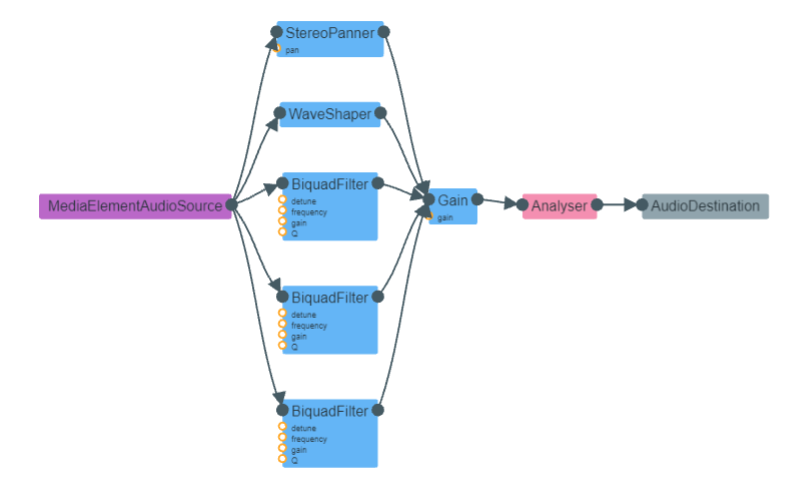
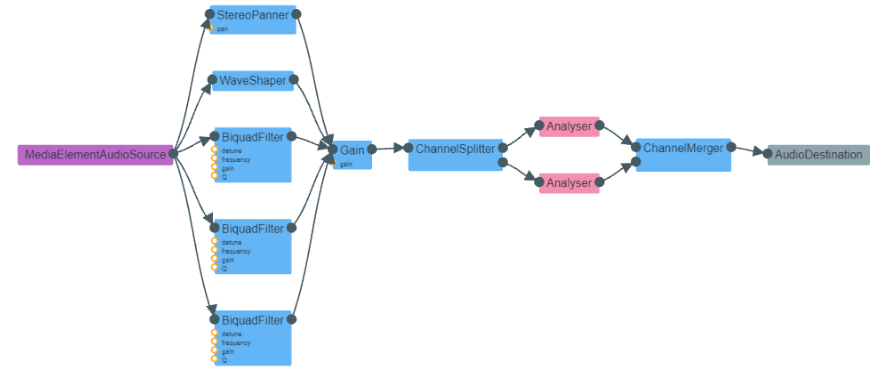
feat: :sparkles: separate left and right channel in bar visualizer

Changed region(s): [[0.0, 0.0, 1.0, 0.9947]]

diff --git a/src/components/Visualiser/Visualiser.tsx b/src/components/Visualiser/Visualiser.tsx
@@ -3,43 +3,59 @@ import Canvas from "../Canvas/Canvas";
 
 interface IVisualiser {
   isAudioPlaying: boolean;
-  analyserNode: AnalyserNode | null;
+  analyserNodeL: AnalyserNode | null;
+  analyserNodeR: AnalyserNode | null;
   visualiserType: string;
 }
 
 function Visualiser({
-  analyserNode,
+  analyserNodeL,
+  analyserNodeR,
   isAudioPlaying,
   visualiserType,
 }: IVisualiser) {
   // create array of unsigned 8 bit integer with length equal to the bufferLength
-  const dataArray = useRef<Uint8Array | null>(null);
+  const dataArrayL = useRef<Uint8Array | null>(null);
+  const dataArrayR = useRef<Uint8Array | null>(null);
 
   useEffect(() => {
-    if (analyserNode === null) return;
+    if (analyserNodeL === null) return;
+    if (analyserNodeR === null) return;
     if (visualiserType === "bar") {
-      analyserNode.fftSize = 512;
+      analyserNodeL.fftSize = 512;
+      analyserNodeR.fftSize = 512;
     } else {
-      analyserNode.fftSize = 2048;
+      analyserNodeL.fftSize = 2048;
+      analyserNodeR.fftSize = 2048;
     }
 
-    dataArray.current = new Uint8Array(analyserNode.frequencyBinCount).fill(
+    dataArrayL.current = new Uint8Array(analyserNodeL.frequencyBinCount).fill(
       visualiserType === "bar" ? 0 : 128
     );
-  }, [analyserNode, visualiserType]);
+
+    dataArrayR.current = new Uint8Array(analyserNodeR.frequencyBinCount).fill(
+      visualiserType === "bar" ? 0 : 128
+    );
+  }, [analyserNodeL, analyserNodeR, visualiserType]);
 
   const draw = useCallback(
     (ctx: CanvasRenderingContext2D) => {
-      if (analyserNode === null) return false;
-      if (dataArray.current === null) return false;
+      if (analyserNodeL === null) return false;
+      if (dataArrayL.current === null) return false;
+      if (analyserNodeR === null) return false;
+      if (dataArrayR.current === null) return false;
 
       const canvasWidth = ctx.canvas.width;
       const canvasHeight = ctx.canvas.height;
-      const bufferLength = analyserNode.frequencyBinCount;
+
+      const bufferLengthL = analyserNodeL.frequencyBinCount;
+      const bufferLengthR = analyserNodeR.frequencyBinCount;
+      if (bufferLengthL !== bufferLengthR) return false;
 
       if (visualiserType === "bar") {
         if (isAudioPlaying) {
-          analyserNode.getByteFrequencyData(dataArray.current);
+          analyserNodeL.getByteFrequencyData(dataArrayL.current);
+          analyserNodeR.getByteFrequencyData(dataArrayR.current);
         }
 
         // clear the canvas
@@ -48,21 +64,29 @@ function Visualiser({
         // define properties of canvas
         ctx.fillStyle = "rgba(255,255,255, 0.5)";
 
-        const barWidth = (canvasWidth / bufferLength) * 2.5;
+        const barWidth = (canvasWidth / bufferLengthL) * 2.5;
+        for (let i = 0; i < bufferLengthL; i++) {
+          const valueL = dataArrayL.current[i];
+          const valueR = dataArrayR.current[i];
 
-        dataArray.current.forEach((value, idx) => {
-          // multiply the idx with the bar width to get the x coordinate
-          const x = idx * barWidth + 1;
-          const barHeight = (value / 255) * canvasHeight * 0.75;
+          const x = i * barWidth + 1;
 
-          const y = canvasHeight - barHeight;
+          // get the height of the bars and divide it by 2 since the canvas has 2 equal sections
+          const barHeightL = ((valueL / 255) * canvasHeight) / 2;
+          const barHeightR = ((valueR / 255) * canvasHeight) / 2;
 
-          ctx.fillRect(x, y, barWidth, barHeight);
-        });
+          const yL = canvasHeight / 2 - barHeightL;
+
+          ctx.fillRect(x, yL, barWidth, barHeightL);
+          ctx.fillRect(x, canvasHeight / 2, barWidth, barHeightR);
+        }
+
+        // });
       } else if (visualiserType === "line") {
         if (isAudioPlaying) {
           // put the result of getByteTimeDomainData to data array
-          analyserNode.getByteTimeDomainData(dataArray.current);
+          analyserNodeL.getByteTimeDomainData(dataArrayL.current);
+          analyserNodeR.getByteTimeDomainData(dataArrayR.current);
         }
 
         // clear the canvas
@@ -75,23 +99,40 @@ function Visualiser({
         ctx.beginPath();
 
         // set width(or distance) of each data points by dividing the data point and the data count;
-        const sliceWidth = canvasWidth / bufferLength;
+        const sliceWidth = canvasWidth / bufferLengthL;
 
-        dataArray.current.forEach((value, idx) => {
+        for (let i = 0; i < bufferLengthL; i++) {
+          const valueL = dataArrayL.current[i];
+          const valueR = dataArrayR.current[i];
+          const valueAvg = (valueL + valueR) / 2;
+
           // multiply the idx with the slice width to get the x coordinate
-          const x = idx * sliceWidth;
+          const x = i * sliceWidth;
 
           // divide the data point(value variable) point by 128 to half it (because the data point is 8 bit unsigned integer -> max 256) so result is always between 0 to 2 inclusive
           // then multiply the result by half of the height to get the y coordinate on the canvas
-          const y = (value / 128.0) * (canvasHeight / 2);
-
-          // just move to x,y if first iteration, else draw a line
-          if (idx === 0) {
+          const y = (valueAvg / 128.0) * (canvasHeight / 2);
+          if (i === 0) {
             ctx.moveTo(x, y);
           } else {
             ctx.lineTo(x, y);
           }
-        });
+        }
+        // dataArrayL.current.forEach((value, idx) => {
+        //   // multiply the idx with the slice width to get the x coordinate
+        //   const x = idx * sliceWidth;
+
+        //   // divide the data point(value variable) point by 128 to half it (because the data point is 8 bit unsigned integer -> max 256) so result is always between 0 to 2 inclusive
+        //   // then multiply the result by half of the height to get the y coordinate on the canvas
+        //   const y = (value / 128.0) * (canvasHeight / 2);
+
+        //   // just move to x,y if first iteration, else draw a line
+        //   if (idx === 0) {
+        //     ctx.moveTo(x, y);
+        //   } else {
+        //     ctx.lineTo(x, y);
+        //   }
+        // });
 
         ctx.lineTo(canvasWidth, canvasHeight / 2);
         ctx.stroke();
@@ -99,7 +140,7 @@ function Visualiser({
 
       return isAudioPlaying;
     },
-    [analyserNode, isAudioPlaying, visualiserType]
+    [analyserNodeL, analyserNodeR, isAudioPlaying, visualiserType]
   );
   return <Canvas draw={draw} />;
 }

diff --git a/src/App.tsx b/src/App.tsx
@@ -11,19 +11,25 @@ function App() {
   const [selectedVisualiser, setSelectedVisualiser] = useState<string>("bar");
   const source = useRef<MediaElementAudioSourceNode | null>(null);
   const audioContext = useRef<AudioContext | null>(null);
-  const analyserNode = useRef<AnalyserNode | null>(null);
+  const analyserNodeL = useRef<AnalyserNode | null>(null);
+  const analyserNodeR = useRef<AnalyserNode | null>(null);
   const stereoNode = useRef<StereoPannerNode | null>(null);
   const gainNode = useRef<GainNode | null>(null);
   const distortionNode = useRef<WaveShaperNode | null>(null);
   const bassNode = useRef<BiquadFilterNode | null>(null);
   const midNode = useRef<BiquadFilterNode | null>(null);
   const trebleNode = useRef<BiquadFilterNode | null>(null);
+  const splitterNode = useRef<ChannelSplitterNode | null>(null);
+  const mergerNode = useRef<ChannelMergerNode | null>(null);
   const audioEl = useRef<HTMLAudioElement>(null);
 
   useEffect(() => {
     if (audioContext.current === null) {
       audioContext.current = new AudioContext();
-      analyserNode.current = new AnalyserNode(audioContext.current, {
+      analyserNodeL.current = new AnalyserNode(audioContext.current, {
+        fftSize: 2048,
+      });
+      analyserNodeR.current = new AnalyserNode(audioContext.current, {
         fftSize: 2048,
       });
       stereoNode.current = new StereoPannerNode(audioContext.current);
@@ -45,6 +51,14 @@ function App() {
         frequency: 4000,
         type: "lowshelf",
       });
+
+      splitterNode.current = new ChannelSplitterNode(audioContext.current, {
+        numberOfOutputs: 2,
+      });
+
+      mergerNode.current = new ChannelMergerNode(audioContext.current, {
+        numberOfInputs: 2,
+      });
     }
   }, []);
 
@@ -62,13 +76,16 @@ function App() {
 
       if (
         audioContext.current &&
-        analyserNode.current &&
+        analyserNodeL.current &&
+        analyserNodeR.current &&
         stereoNode.current &&
         gainNode.current &&
         distortionNode.current &&
         bassNode.current &&
         midNode.current &&
-        trebleNode.current
+        trebleNode.current &&
+        splitterNode.current &&
+        mergerNode.current
       ) {
         source.current.connect(stereoNode.current);
         source.current.connect(distortionNode.current);
@@ -81,10 +98,14 @@ function App() {
         bassNode.current.connect(gainNode.current);
         midNode.current.connect(gainNode.current);
         trebleNode.current.connect(gainNode.current);
+        gainNode.current.connect(splitterNode.current);
+        splitterNode.current.connect(analyserNodeL.current, 0);
+        splitterNode.current.connect(analyserNodeR.current, 1);
 
-        gainNode.current.connect(analyserNode.current);
+        analyserNodeL.current.connect(mergerNode.current, 0, 0);
+        analyserNodeR.current.connect(mergerNode.current, 0, 1);
 
-        analyserNode.current.connect(audioContext.current.destination);
+        mergerNode.current.connect(audioContext.current.destination);
       }
     }
   }
@@ -135,7 +156,8 @@ function App() {
           />
           <Visualiser
             visualiserType={selectedVisualiser}
-            analyserNode={analyserNode.current}
+            analyserNodeL={analyserNodeL.current}
+            analyserNodeR={analyserNodeR.current}
             isAudioPlaying={isAudioPlaying}
           />
 

diff --git a/README.md b/README.md
@@ -6,7 +6,7 @@ A mini project to learn Web Audio API in react.
 Project can be accessed [here.](https://react-audio-visualizer.vercel.app/)
 
 ## Filters/Effects
-- Gain
+- Gain(Volume)
 - Distortion
 - Stereo Pan
 - Bass 
